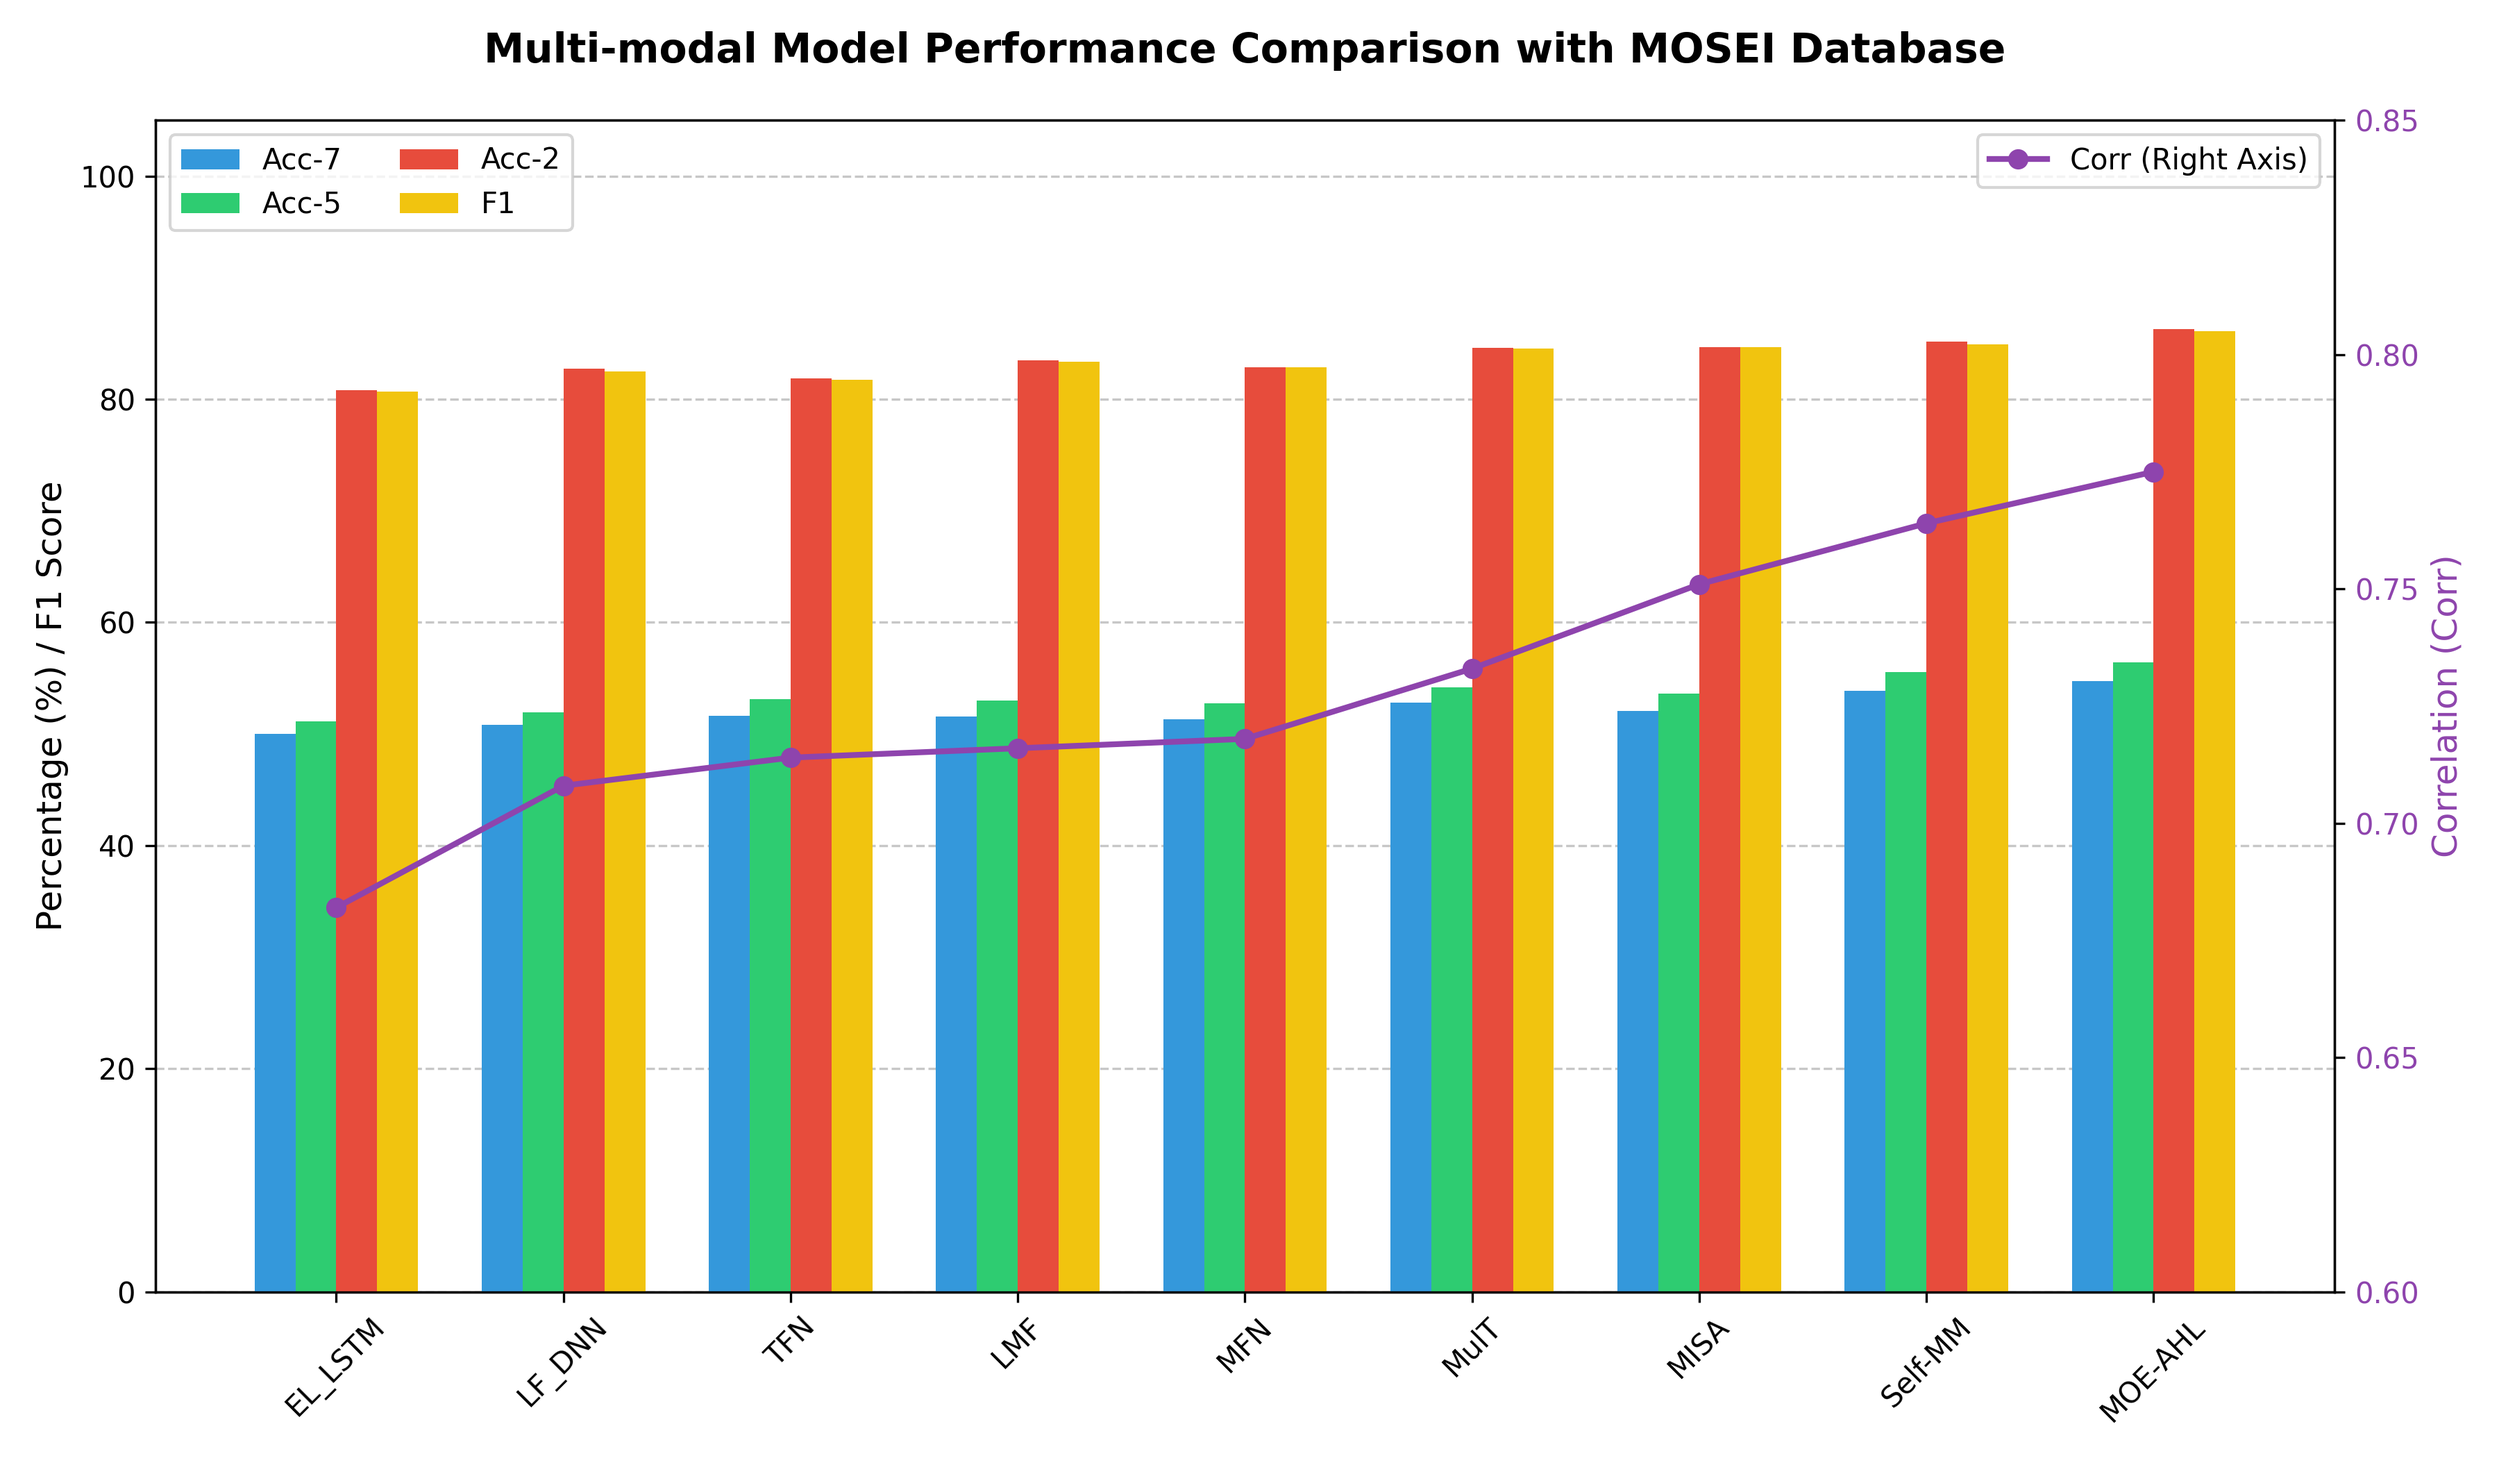
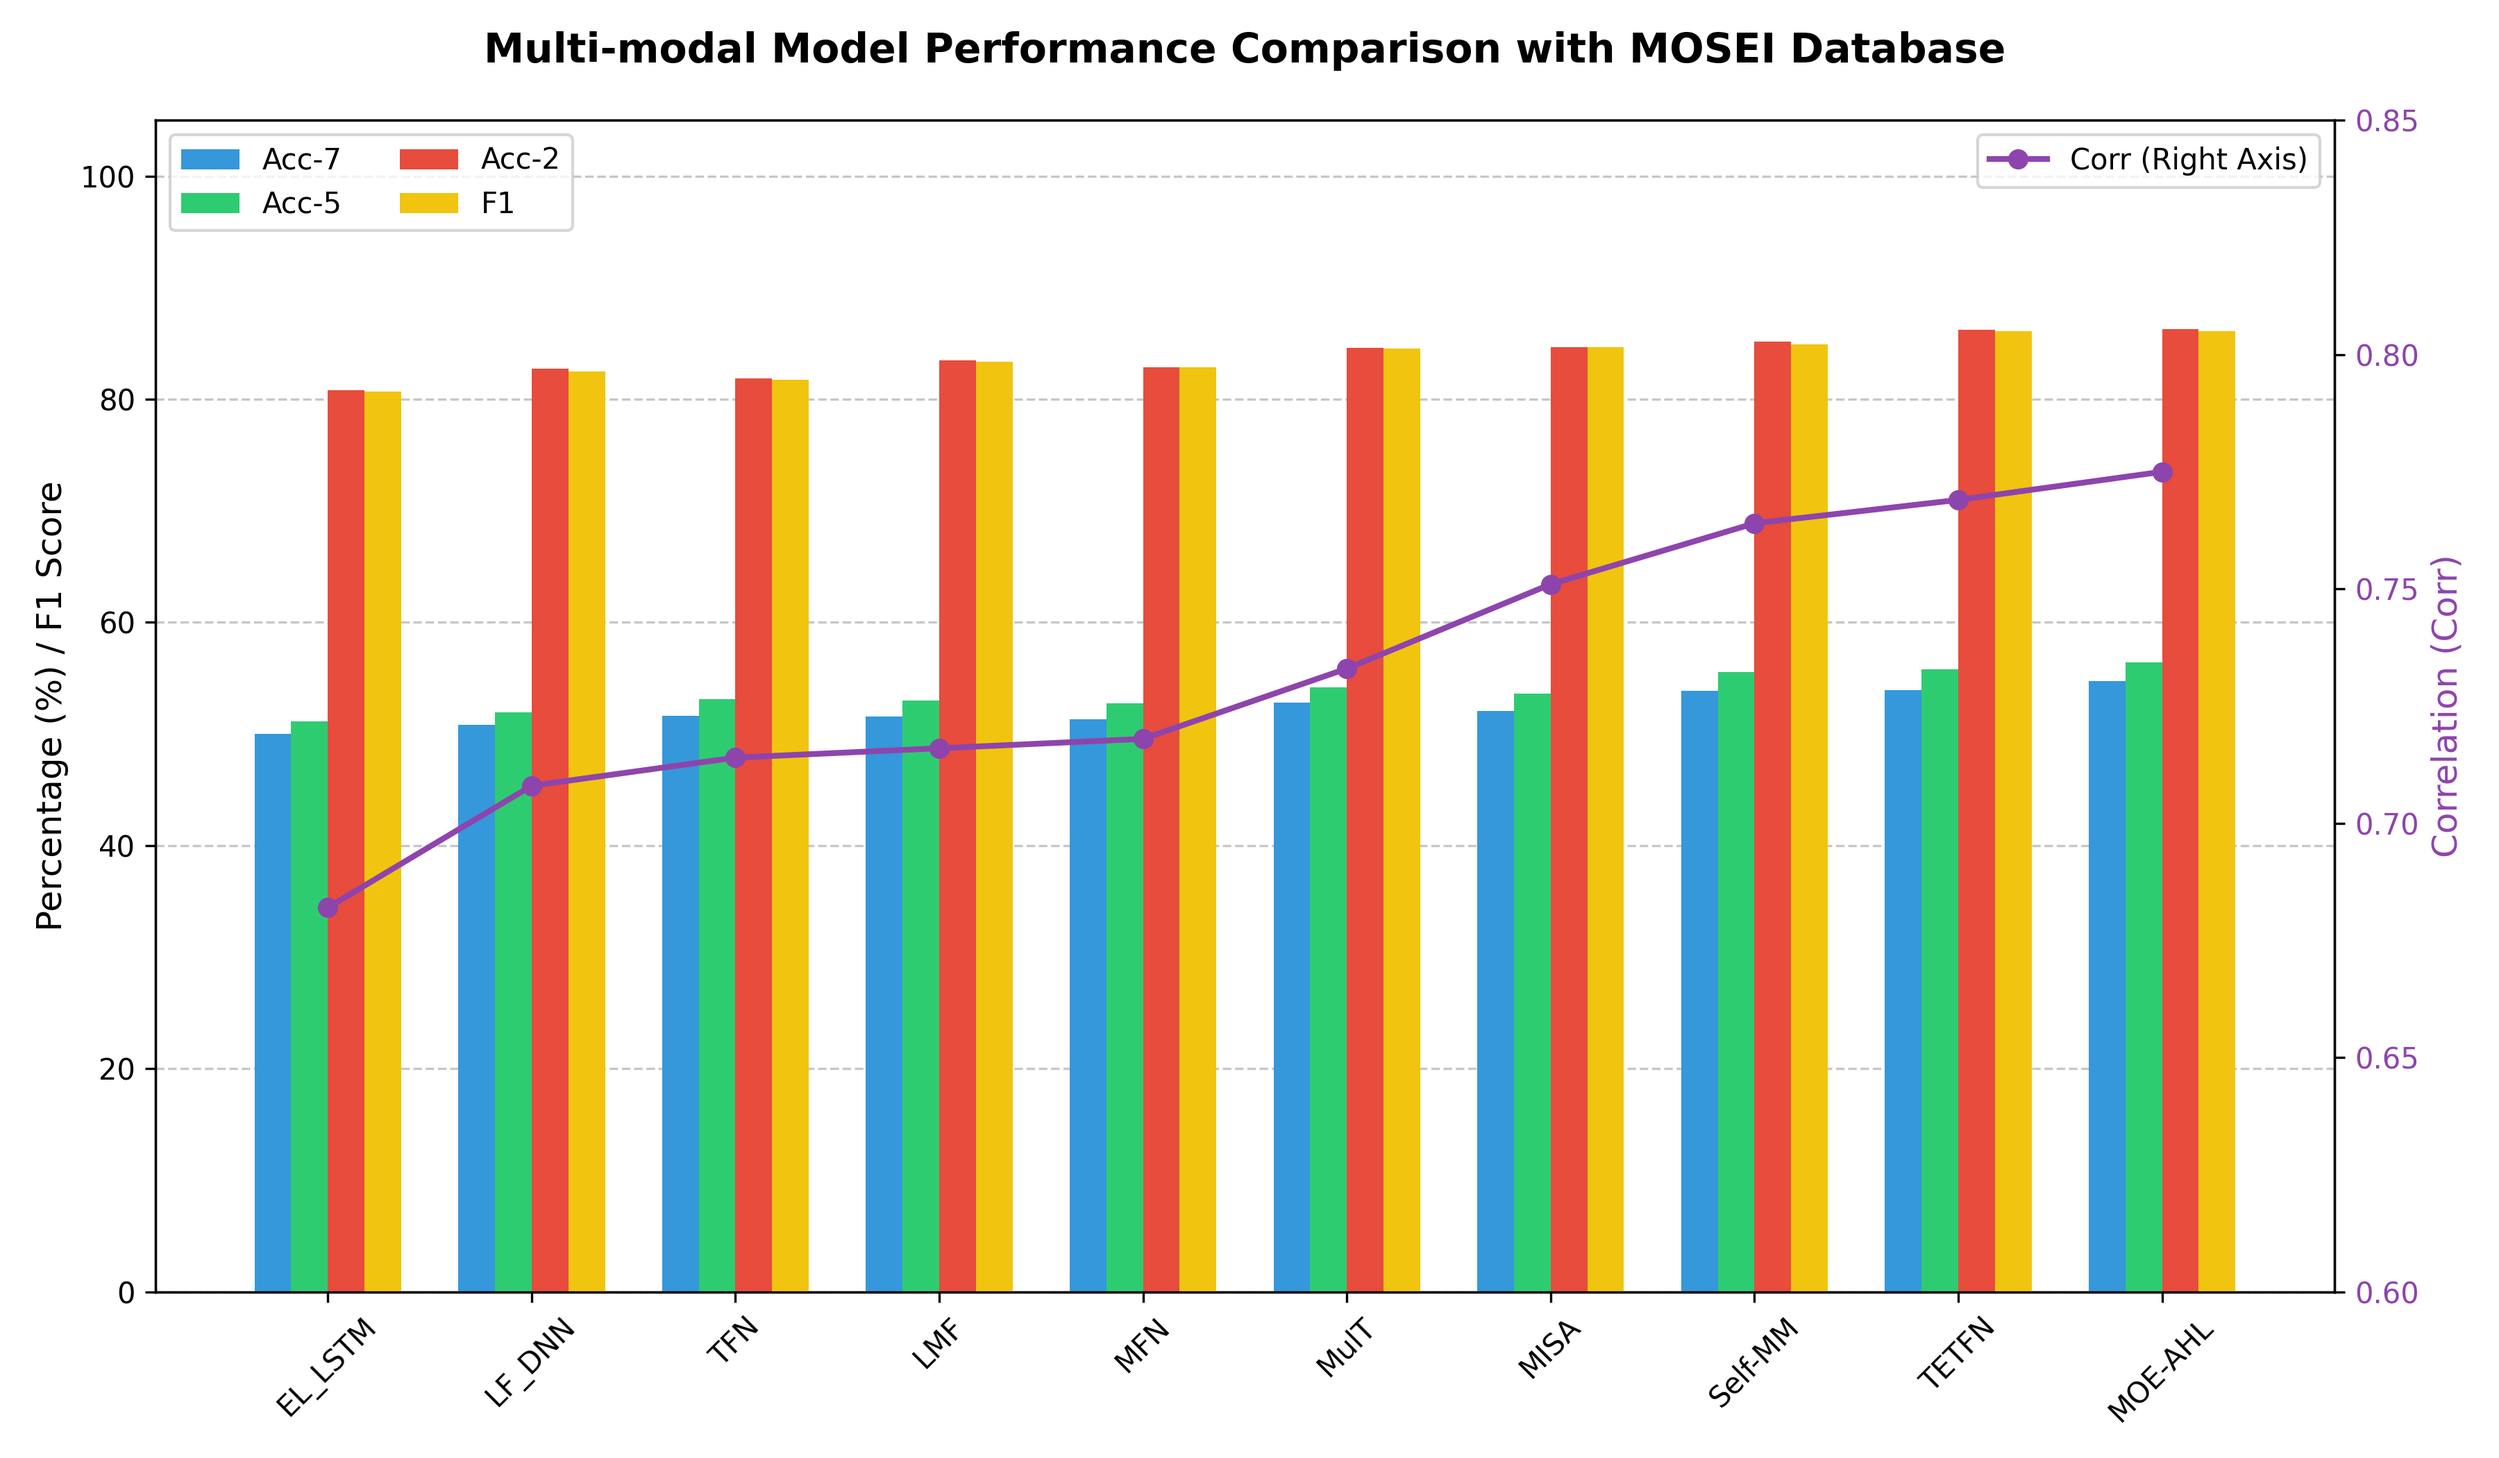
画图提交

diff --git a/plot/mosei.py b/plot/mosei.py
@@ -2,14 +2,14 @@ import matplotlib.pyplot as plt
 import pandas as pd
 import numpy as np
 
-# 1. 准备数据
+# 1. 准备数据 (已加入 TETFN 模型数据)
 data = {
-    'Model': ['EL_LSTM', 'LF_DNN', 'TFN', 'LMF', 'MFN', 'MulT', 'MISA', 'Self-MM', 'MOE-AHL'],
-    'Acc-7': [50.01, 50.83, 51.6, 51.59, 51.34, 52.84, 52.05, 53.87, 54.73],
-    'Acc-5': [51.16, 51.97, 53.1, 52.99, 52.76, 54.18, 53.63, 55.53, 56.45],
-    'Acc-2': [80.79, 82.74, 81.89, 83.48, 82.86, 84.63, 84.67, 85.15, 86.32],
-    'F1': [80.67, 82.52, 81.74, 83.36, 82.85, 84.52, 84.66, 84.90, 86.13],
-    'Corr': [0.682, 0.708, 0.714, 0.716, 0.718, 0.733, 0.751, 0.764, 0.775]
+    'Model': ['EL_LSTM', 'LF_DNN', 'TFN', 'LMF', 'MFN', 'MulT', 'MISA', 'Self-MM', 'TETFN', 'MOE-AHL'],
+    'Acc-7': [50.01, 50.83, 51.6, 51.59, 51.34, 52.84, 52.05, 53.87, 53.90, 54.73],
+    'Acc-5': [51.16, 51.97, 53.1, 52.99, 52.76, 54.18, 53.63, 55.53, 55.78, 56.45],
+    'Acc-2': [80.79, 82.74, 81.89, 83.48, 82.86, 84.63, 84.67, 85.15, 86.21, 86.32],
+    'F1': [80.67, 82.52, 81.74, 83.36, 82.85, 84.52, 84.66, 84.90, 86.11, 86.13],
+    'Corr': [0.682, 0.708, 0.714, 0.716, 0.718, 0.733, 0.751, 0.764, 0.769, 0.775]
 }
 
 df = pd.DataFrame(data)
@@ -33,14 +33,14 @@ ax1.set_xticklabels(df['Model'], rotation=45)
 ax1.legend(loc='upper left', ncol=2)
 ax1.grid(axis='y', linestyle='--', alpha=0.7, zorder=0)
 
-# 4. 绘制 Corr (使用右侧 Y 轴，因为它的量级在 0-1 之间)
+# 4. 绘制 Corr (使用右侧 Y 轴)
 ax2 = ax1.twinx()
 ax2.plot(x, df['Corr'], color='#8e44ad', marker='o', linewidth=2, label='Corr (Right Axis)', zorder=5)
 
 # 设置右轴标签
 ax2.set_ylabel('Correlation (Corr)', fontsize=12, color='#8e44ad')
 ax2.tick_params(axis='y', labelcolor='#8e44ad')
-ax2.set_ylim(0.6, 0.85) # 优化相关系数的展示范围
+ax2.set_ylim(0.6, 0.85)
 ax2.legend(loc='upper right')
 
 # 5. 标题与布局优化
